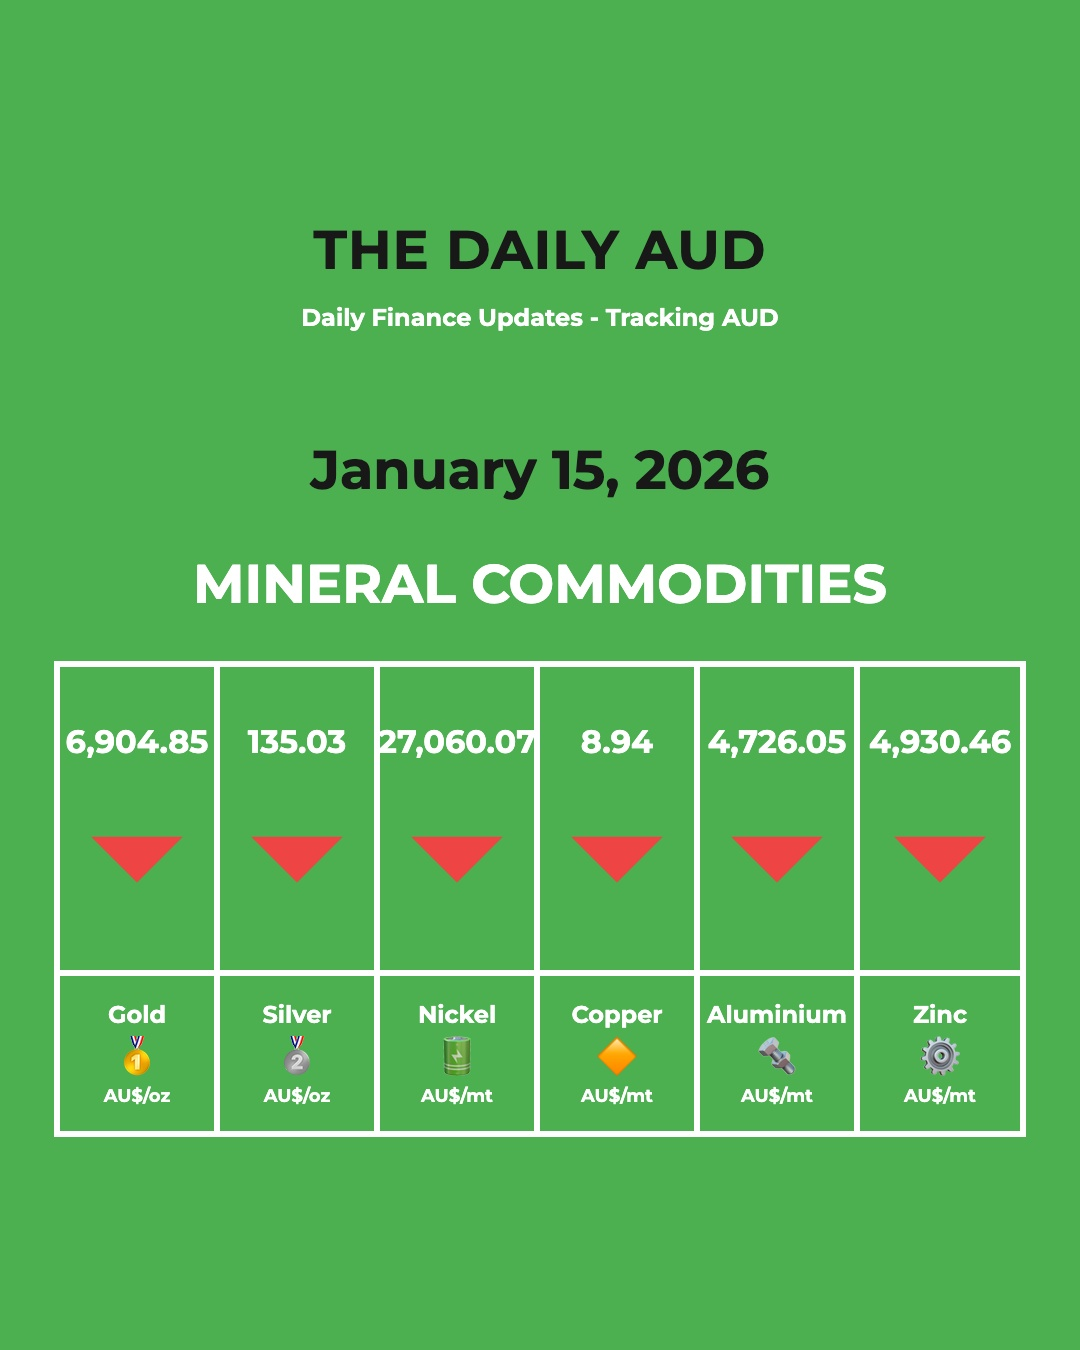
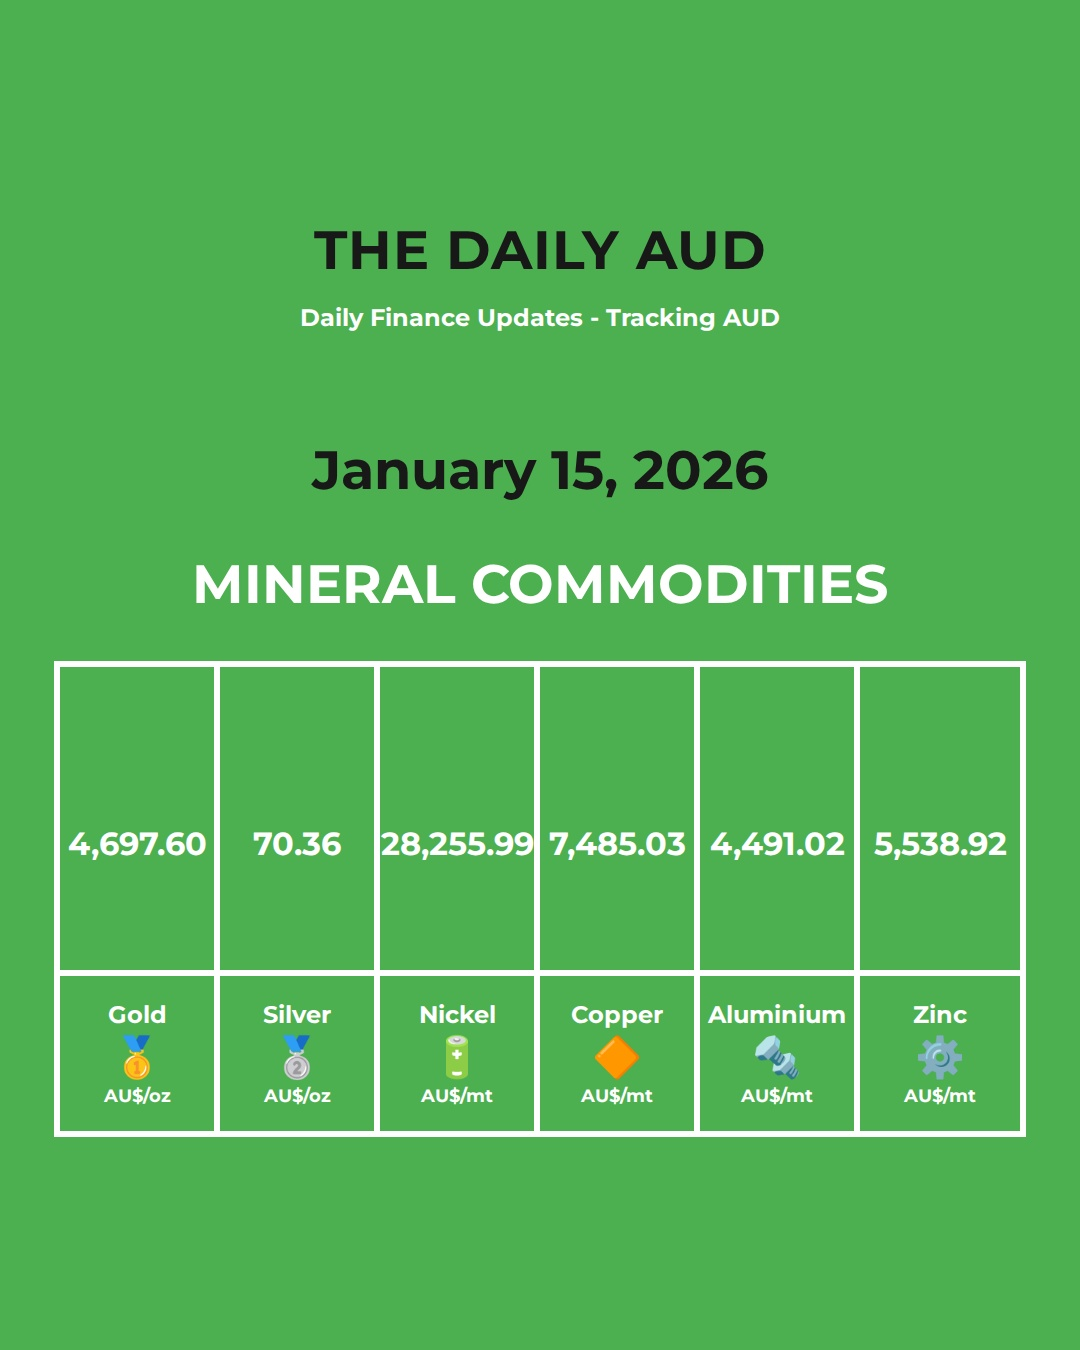
Auto-update: Daily data collection 2026-01-15 14:19:11 UTC

diff --git a/data/commodities_data/HTML/commodity_2026-01-15.html b/data/commodities_data/HTML/commodity_2026-01-15.html
@@ -233,28 +233,28 @@
             <div class="table-grid">
                 <!-- First row: Commodity rates -->
                 <div class="table-cell">
-                    <div class="commodity-code">6,904.85</div>
-                    <div class="commodity-arrow arrow-down"><svg viewBox="0 0 24 24" xmlns="http://www.w3.org/2000/svg"><path d="M7 10L12 15L17 10H7Z" fill="currentColor"/></svg></div>
+                    <div class="commodity-code">4,697.60</div>
+                    
                 </div>
                 <div class="table-cell">
-                    <div class="commodity-code">135.03</div>
-                    <div class="commodity-arrow arrow-down"><svg viewBox="0 0 24 24" xmlns="http://www.w3.org/2000/svg"><path d="M7 10L12 15L17 10H7Z" fill="currentColor"/></svg></div>
+                    <div class="commodity-code">70.36</div>
+                    
                 </div>
                 <div class="table-cell">
-                    <div class="commodity-code">27,060.07</div>
-                    <div class="commodity-arrow arrow-down"><svg viewBox="0 0 24 24" xmlns="http://www.w3.org/2000/svg"><path d="M7 10L12 15L17 10H7Z" fill="currentColor"/></svg></div>
+                    <div class="commodity-code">28,255.99</div>
+                    
                 </div>
                 <div class="table-cell">
-                    <div class="commodity-code">8.94</div>
-                    <div class="commodity-arrow arrow-down"><svg viewBox="0 0 24 24" xmlns="http://www.w3.org/2000/svg"><path d="M7 10L12 15L17 10H7Z" fill="currentColor"/></svg></div>
+                    <div class="commodity-code">7,485.03</div>
+                    
                 </div>
                 <div class="table-cell">
-                    <div class="commodity-code">4,726.05</div>
-                    <div class="commodity-arrow arrow-down"><svg viewBox="0 0 24 24" xmlns="http://www.w3.org/2000/svg"><path d="M7 10L12 15L17 10H7Z" fill="currentColor"/></svg></div>
+                    <div class="commodity-code">4,491.02</div>
+                    
                 </div>
                 <div class="table-cell">
-                    <div class="commodity-code">4,930.46</div>
-                    <div class="commodity-arrow arrow-down"><svg viewBox="0 0 24 24" xmlns="http://www.w3.org/2000/svg"><path d="M7 10L12 15L17 10H7Z" fill="currentColor"/></svg></div>
+                    <div class="commodity-code">5,538.92</div>
+                    
                 </div>
                 
                 <!-- Second row: Commodity units -->
